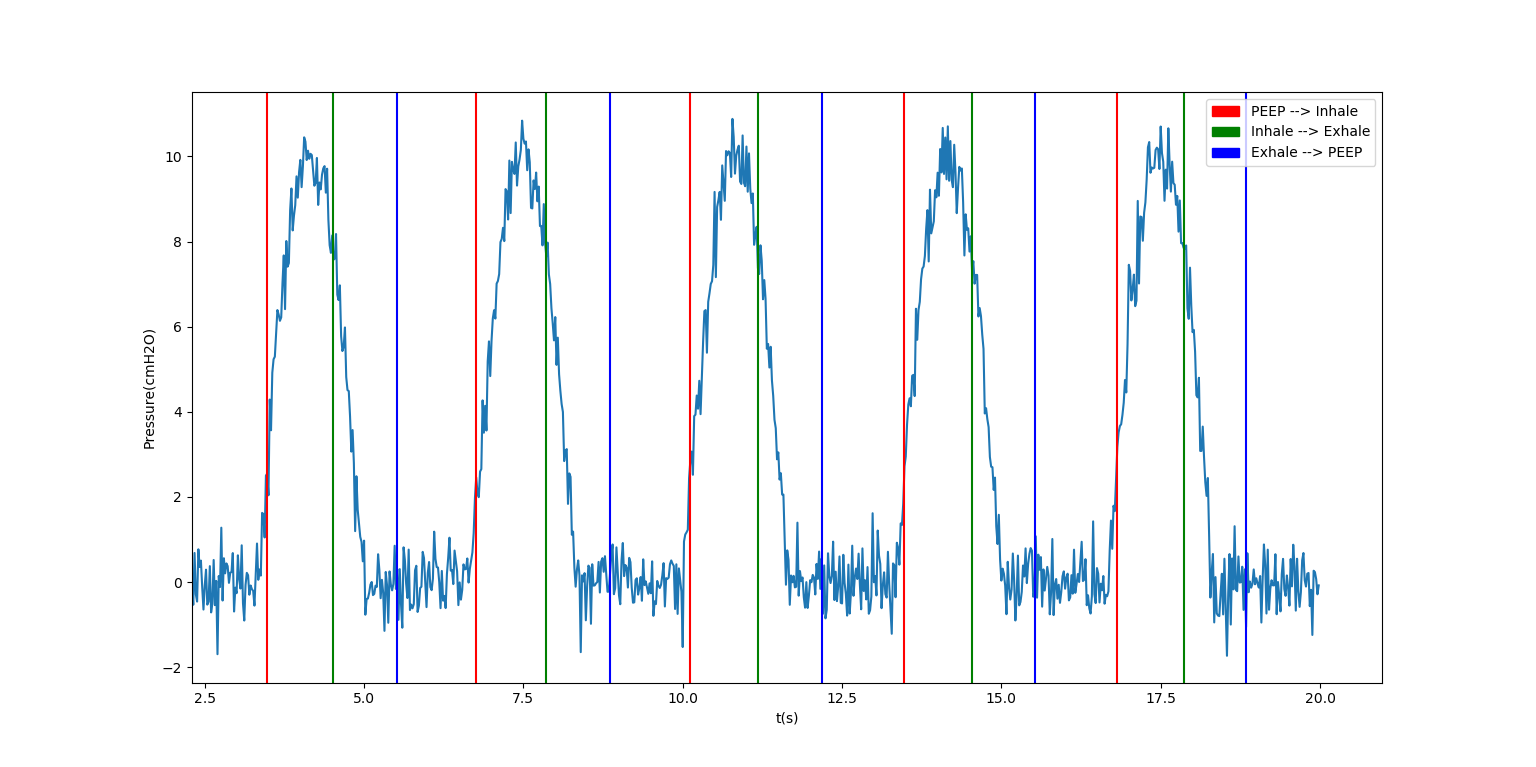
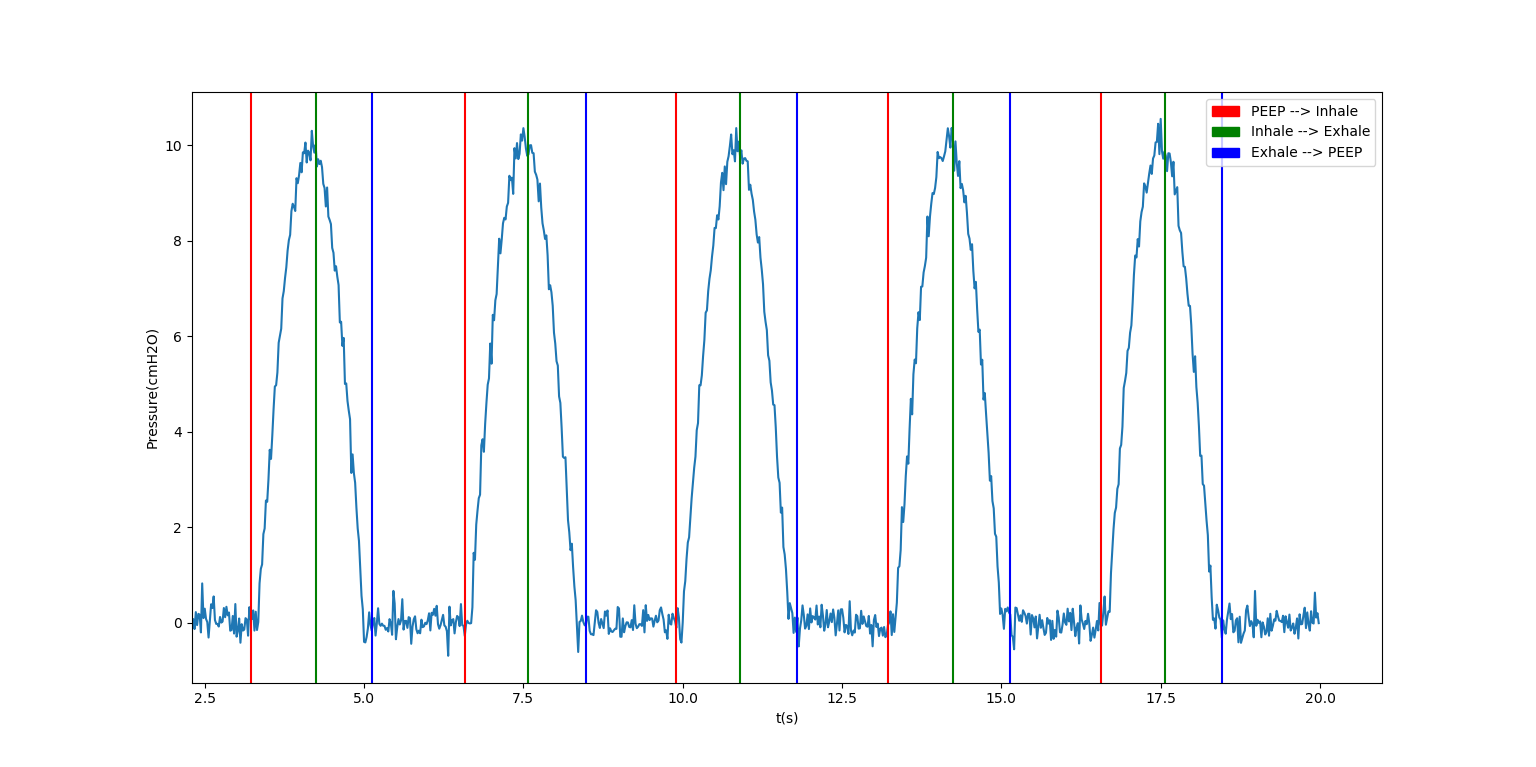
fixed time of event

diff --git a/my_states.py b/my_states.py
@@ -4,11 +4,11 @@ from config import *
 SUMMARIZE_EVENTS = []
 
 class Inhale(State):
-    def on_event(self, slope, sample_index, sample_rate):
+    def on_event(self, slope, event_time):
         if slope < PRESSURE_DECREASE_THRESHOLD:
-            print("TIME: " + str(sample_index / sample_rate))
+            print("TIME: " + str(event_time))
             print("\tINHALE --> EXHALE")
-            SUMMARIZE_EVENTS.append(sample_index/sample_rate)
+            SUMMARIZE_EVENTS.append(event_time)
             return Exhale()
         else:
             print("Inhaling...")
@@ -16,22 +16,22 @@ class Inhale(State):
 
 
 class Exhale(State):
-    def on_event(self, slope, sample_index, sample_rate):
+    def on_event(self, slope, event_time):
         if abs(slope) < PRESSURE_PLATEAU_THRESHOLD:
-            print("TIME: " + str(sample_index / sample_rate))
+            print("TIME: " + str(event_time))
             print("\tEXHALE --> PLATEAU")
-            SUMMARIZE_EVENTS.append(sample_index/sample_rate)
+            SUMMARIZE_EVENTS.append(event_time)
             return Peep()
         else:
             print("Exhaling...")
             return Exhale()
 
 class Peep(State):
-    def on_event(self, slope, sample_index, sample_rate):
+    def on_event(self, slope, event_time):
         if slope > PRESSURE_INCREASE_THRESHOLD:
-            print("TIME: " + str(sample_index / sample_rate))
+            print("TIME: " + str(event_time))
             print("\tPEEP --> INHALE")
-            SUMMARIZE_EVENTS.append(sample_index/sample_rate)
+            SUMMARIZE_EVENTS.append(event_time)
             return Inhale()
         else:
             print("PEEP...")

diff --git a/resperation_analyzer.py b/resperation_analyzer.py
@@ -33,4 +33,6 @@ class ResperationAnalyzer(object):
             X = [i/self.sample_rate for i in range(-half_window_size,half_window_size+1)]
             slope = linregress(X, self.window).slope
 
-            self.state = self.state.on_event(slope, sample_index, self.sample_rate)
+            event_time = (sample_index - (WINDOW_SIZE-1)/2) / self.sample_rate
+
+            self.state = self.state.on_event(slope, event_time)

diff --git a/state.py b/state.py
@@ -2,7 +2,7 @@ class State(object):
     def __init__(self):
         pass
 
-    def on_event(self, slope, sample_index, sample_rate):
+    def on_event(self, slope, event_time):
         """
         Handle events that are delegated to this State.
         """
